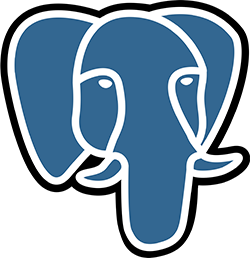
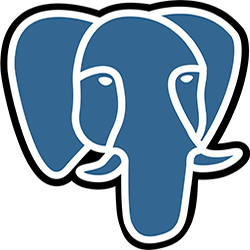
added shadcn-ui to Skills component and update all images sizes to match

diff --git a/src/components/Skills.jsx b/src/components/Skills.jsx
@@ -14,6 +14,7 @@ import Docker from "../assets/docker.png";
 import Redux from "../assets/redux.png";
 import Prisma from "../assets/prisma.png";
 import MaterialUI from "../assets/materialui.png";
+import Shadcn from "../assets/shadcn.png";
 
 const Skills = () => {
   return (
@@ -106,6 +107,10 @@ const Skills = () => {
               alt="Material UI icon"
             />
             <p className="my-4">MATERIAL UI</p>
+          </div>
+          <div className="shadow-md shadow-[#040c16] hover:scale-110 duration-500">
+            <img className="w-20 mx-auto" src={Shadcn} alt="Shadcn-ui icon" />
+            <p className="my-4">SHADCN-UI</p>
           </div>
         </div>
       </div>
